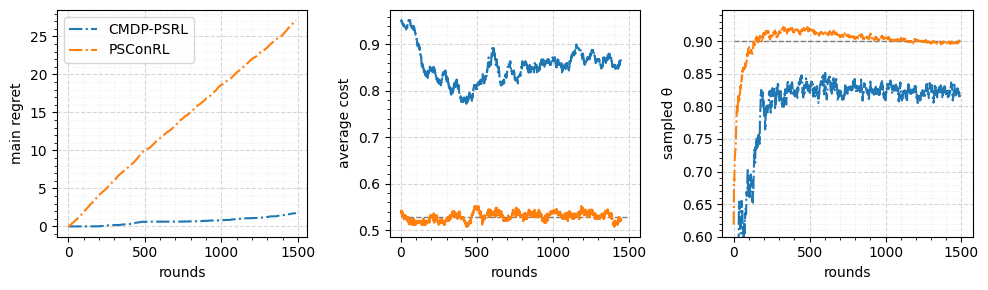
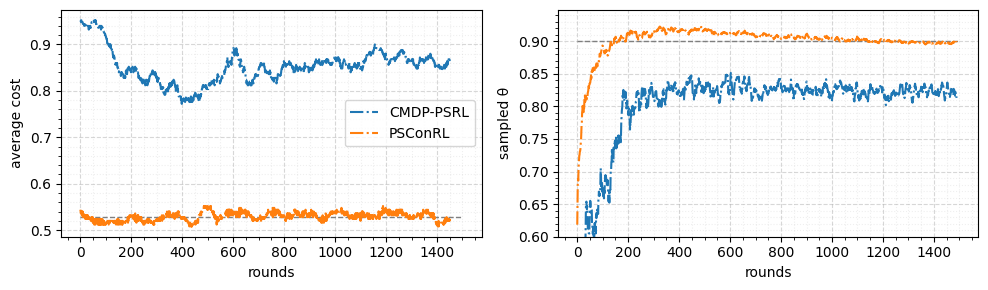
prefinal submission

diff --git a/run_toy_example.py b/run_toy_example.py
@@ -79,7 +79,7 @@ for j, infeas_policy in enumerate(policies):
 
             # solve LP
             lin_prog_solver = LinProgSolver(env)
-            lin_prog_solution = lin_prog_solver()
+            lin_prog_solution = lin_prog_solver(return_raw_solution=True)
 
             if LpStatus[lin_prog_solution.status] == 'Infeasible':
                 policy = infeas_policy
@@ -108,22 +108,22 @@ for j, infeas_policy in enumerate(policies):
 
     print(CNTS[j])
 
-fig, axs = plt.subplots(1, 3,figsize=(10,3))
-axs[0].plot(np.mean(REGRET[1], axis=0), label='CMDP-PSRL',linestyle='-.')
-axs[0].plot(np.mean(REGRET[0], axis=0), label='PSConRL',linestyle='-.')
-axs[0].set(xlabel='rounds', ylabel='main regret')
+fig, axs = plt.subplots(1, 2,figsize=(10,3))
+# axs[0].plot(np.mean(REGRET[1], axis=0), label='CMDP-PSRL',linestyle='-.')
+# axs[0].plot(np.mean(REGRET[0], axis=0), label='PSConRL',linestyle='-.')
+# axs[0].set(xlabel='rounds', ylabel='main regret')
+
+axs[0].hlines(y=optimal_cost, xmin=0, xmax=T, colors='#7f7f7f', linestyles='--', lw=1)
+axs[0].plot(np.mean(COST[1], axis=0), label='CMDP-PSRL',linestyle='-.')
+axs[0].plot(np.mean(COST[0], axis=0), label='PSConRL',linestyle='-.')
+axs[0].set(xlabel='rounds', ylabel='average cost')
 axs[0].legend()
 
-axs[1].hlines(y=optimal_cost, xmin=0, xmax=T, colors='#7f7f7f', linestyles='--', lw=1)
-axs[1].plot(np.mean(COST[1], axis=0), label='CMDP-PSRL',linestyle='-.')
-axs[1].plot(np.mean(COST[0], axis=0), label='PSConRL',linestyle='-.')
-axs[1].set(xlabel='rounds', ylabel='average cost')
-
-axs[2].hlines(y=theta, xmin=0, xmax=T, colors='#7f7f7f', linestyles='--', lw=1)
-axs[2].plot(np.mean(THETAS[1], axis=0), label='CMDP-PSRL',linestyle='-.')
-axs[2].plot(np.mean(THETAS[0], axis=0), label='PSConRL',linestyle='-.')
-axs[2].set(xlabel='rounds', ylabel='sampled θ')
-axs[2].set_ylim(0.6, None)
+axs[1].hlines(y=theta, xmin=0, xmax=T, colors='#7f7f7f', linestyles='--', lw=1)
+axs[1].plot(np.mean(THETAS[1], axis=0), label='CMDP-PSRL',linestyle='-.')
+axs[1].plot(np.mean(THETAS[0], axis=0), label='PSConRL',linestyle='-.')
+axs[1].set(xlabel='rounds', ylabel='sampled θ')
+axs[1].set_ylim(0.6, None)
 
 for ax in axs:
     ax.grid(visible=True, which='major', linestyle='--', alpha=0.5)

diff --git a/src/codebase/rl_solver/nonlin_prog.py b/src/codebase/rl_solver/nonlin_prog.py
@@ -96,13 +96,15 @@ class NonlinProgSolver(RLSolver):
 
         bnds = tuple([(0.0, 1.0) for _ in range(self.S * self.A + self.S ** 2 * self.A)])
         arguments = (R,)
-
+        print('start solving')
         result = optimize.minimize(self.objective, x0, method='SLSQP', args = arguments,
                                    bounds=bnds, constraints=cons, options={'maxiter':30})
         # print(result)
         if result.success:
+            print('success')
             mu, P = self.toMuP(result.x)
         else:
+            print('no success')
             mu = np.ones((self.S, self.A)) * 0.25
 
         return mu / mu.sum(axis=1, keepdims=True)
@@ -126,7 +128,7 @@ if __name__ == '__main__':
     path = os.path.dirname(os.path.dirname(os.path.dirname(__file__)))
 
     d = 1
-    args = {'map': "4x4_gwsc", 'randomness': 0, 'd': d, 'infinite': True, 'horizon': 100}
+    args = {'map': "8x8_marsrover", 'randomness': 0, 'd': d, 'infinite': True, 'horizon': 100}
     gridworld = GridWorld(args)
     [mdp_values, Si, Ai] = gridworld.encode()
 

diff --git a/src/plot_performance.py b/src/plot_performance.py
@@ -49,7 +49,7 @@ def compute_regret(rolling_results, opt_reward, opt_cost):
     return mean_main_regret, std_main_regret, mean_aux_regret, std_aux_regret
 
 
-path = './log/to_plot2/'
+path = 'log/to_plot_ICML/'
 list_of_folders = glob.glob(path + '*')
 list_colors = ['#1f77b4', '#ff7f0e', '#2ca02c', '#d62728', '#9467bd',
                '#e377c2', '#7f7f7f', '#bcbd22', '#17becf']
@@ -83,9 +83,9 @@ for folder in list_of_folders:
         fast_reward = -0.92307692
         opt_cost = 0.1
 
-        XMAX = 70000
-        n_average = 100
-        text_pos_x = 64000
+        XMAX = 20000
+        n_average = 1000
+        text_pos_x = 14000
         eps_shift_up = 0.004
         eps_shift_down = 0.008
 

diff --git a/src/run.py b/src/run.py
@@ -53,7 +53,7 @@ def main():
         budget = [0.2]
         args._lambda_lr = 2.9
         G = GridWorld(args=args)
-        #args.bonus_coef = 0.1
+        args.bonus_coef = 0.1
     elif args.env == 'marsrover_gridworld':
         budget = [0.1]
         args._lambda_lr = 0.0035
